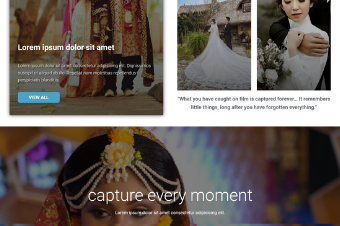
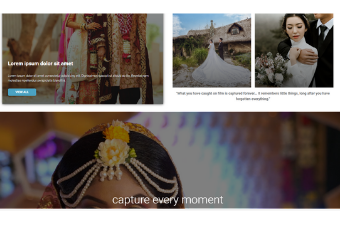
clear up

diff --git a/index.html b/index.html
@@ -66,7 +66,6 @@
           </div>
 
           <div class="home__social">
-            <!--<span class="home__social-name">signature</span>-->
             <a
               href="https://github.com/amenab1236?tab=repositories"
               class="home__social-icon"
@@ -294,7 +293,7 @@
         </div>
       </section>
 
-      <!--===== CONTACTME =====-->
+      <!--===== CONTACT ME =====-->
 
       <section class="contact section bd-container" id="contact">
         <h2 class="section-title">Contact Me</h2>
@@ -348,10 +347,6 @@
           My name is Amena and this is my personal website, consult me here
         </p>
         <div class="footer__social">
-          <!--
-          <a href="#" class="footer__link"
-            ><i class="fab fa-linkedin-in"></i
-          ></a> -->
           <a
             href="https://github.com/amenab1236?tab=repositories"
             class="footer__link"

diff --git a/assets/css/styles.css b/assets/css/styles.css
@@ -437,7 +437,6 @@ img {
 .portfolio__img {
   width: 100%;
   transition: 0.4s;
-  filter: contrast(80%);
 }
 
 .portfolio__data {
@@ -462,7 +461,6 @@ img {
 
 .portfolio__content:hover .portfolio__img {
   transform: scale(1.02);
-  filter: brightness(70%);
 }
 
 /* Active menu portfolio*/
